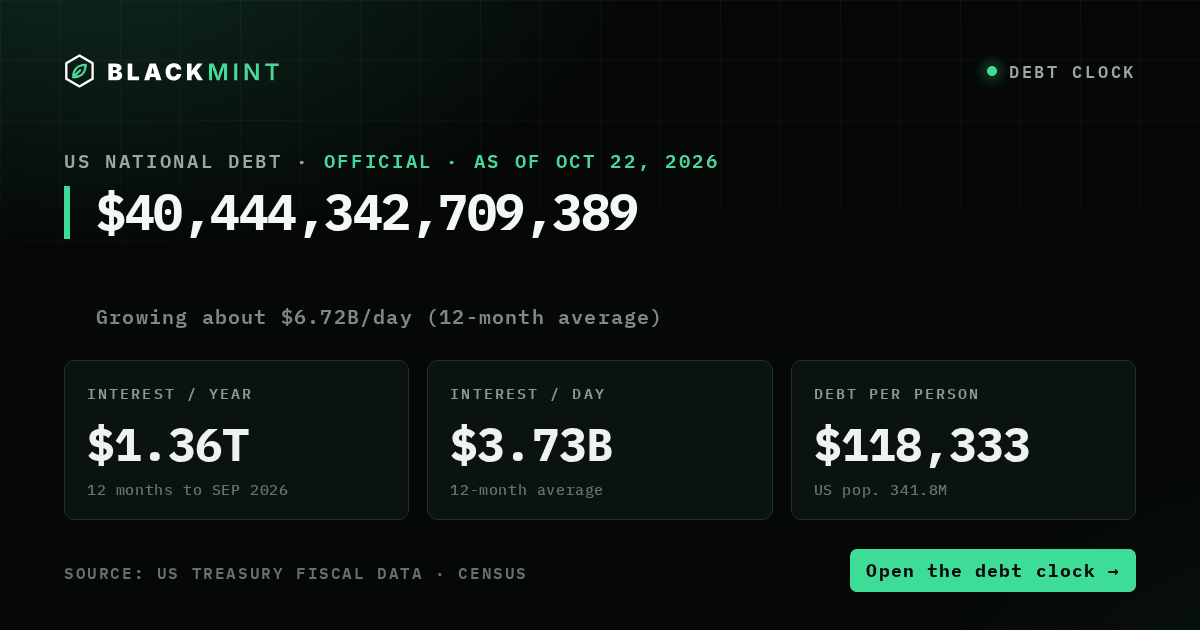
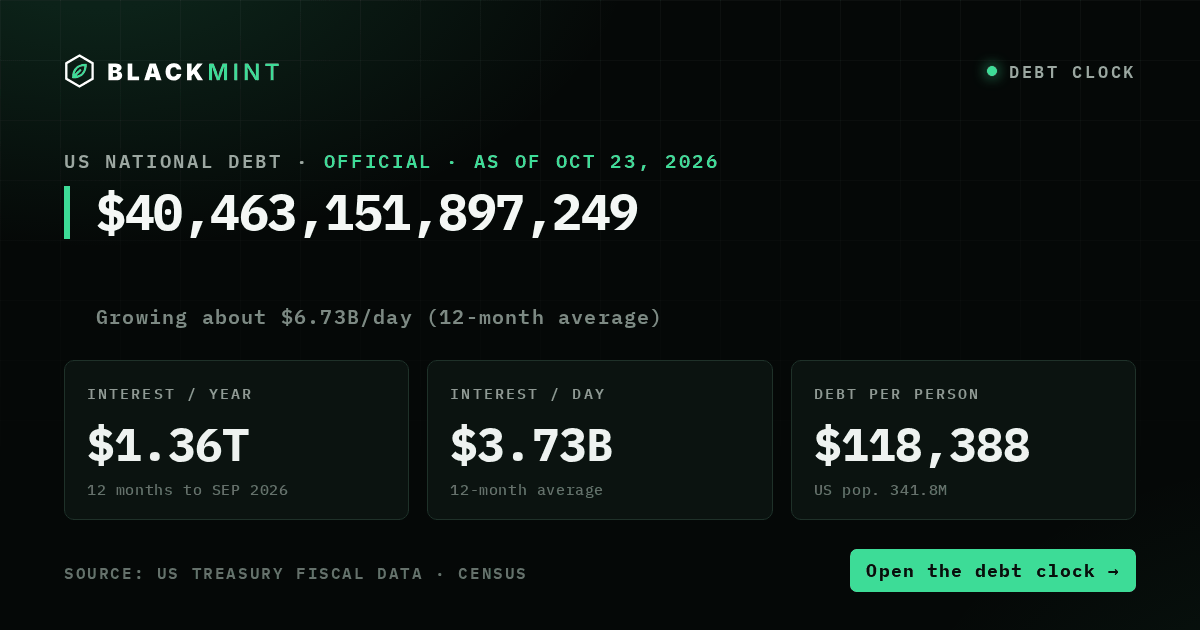
News 2026-10-26 18:46 ET: 16 live, +1 -3 · debt 2026-10-23

diff --git a/debt/index.html b/debt/index.html
@@ -1,1 +1,1 @@
-<!doctype html><html lang="en"><head><meta charset="utf-8"><meta name="viewport" content="width=device-width,initial-scale=1"><title>US National Debt Clock — Blackmint</title><meta name="description" content="The US national debt was $40.44 trillion ($40,444,342,709,389) on Oct 22, 2026, per the US Treasury. Interest: $1.36T a year, about $3.73B a day. That is $118,333 per person."><link rel="canonical" href="https://blackmint.markets/debt/"><meta property="og:type" content="website"><meta property="og:site_name" content="Blackmint"><meta property="og:title" content="US National Debt Clock — Blackmint"><meta property="og:description" content="The US national debt was $40.44 trillion ($40,444,342,709,389) on Oct 22, 2026, per the US Treasury. Interest: $1.36T a year, about $3.73B a day. That is $118,333 per person."><meta property="og:url" content="https://blackmint.markets/debt/"><meta property="og:image" content="https://blackmint.markets/og/debt/clock.png?v=20261022-2c67a5"><meta property="og:image:type" content="image/png"><meta property="og:image:width" content="1200"><meta property="og:image:height" content="630"><meta property="og:image:alt" content="US national debt $40,444,342,709,389 as of Oct 22, 2026: interest $1.36T per year, $3.73B per day, $118,333 per person. Blackmint."><meta name="twitter:card" content="summary_large_image"><meta name="twitter:title" content="US National Debt Clock — Blackmint"><meta name="twitter:description" content="The US national debt was $40.44 trillion ($40,444,342,709,389) on Oct 22, 2026, per the US Treasury. Interest: $1.36T a year, about $3.73B a day. That is $118,333 per person."><meta name="twitter:image" content="https://blackmint.markets/og/debt/clock.png?v=20261022-2c67a5"><meta name="twitter:image:alt" content="US national debt $40,444,342,709,389 as of Oct 22, 2026: interest $1.36T per year, $3.73B per day, $118,333 per person. Blackmint."><meta name="theme-color" content="#050807"><link rel="icon" href="/favicon.ico" sizes="16x16 32x32 48x48"><link rel="apple-touch-icon" href="/apple-touch-icon.png"><script>(function(){try{if(/bot|crawl|spider|slurp|facebookexternalhit|facebot|twitterbot|slackbot|whatsapp|telegram|discord|linkedin|pinterest|embedly|skype|vkshare|redditbot|applebot|google-?inspection|bingpreview|quora|outbrain|iframely|mastodon|bluesky|cardyb|snapchat|line\/|kakaotalk|viber|signal|preview/i.test(navigator.userAgent||''))return}catch(_){}location.replace((/(^|\.)blackmint\.markets$|^localhost$|^127\.0\.0\.1$/.test(location.hostname)?'':'https://blackmint.markets')+'/#debt')})()</script><style>*{box-sizing:border-box}html,body{margin:0;background:#050807;color:#e8ecea;font:16px/1.5 Inter,system-ui,-apple-system,'Segoe UI',Roboto,sans-serif}main{max-width:680px;margin:0 auto;padding:40px 22px}img.lk{display:block;height:26px;width:auto;margin-bottom:34px}.k{font:600 12px ui-monospace,'IBM Plex Mono',monospace;letter-spacing:.12em;text-transform:uppercase;color:#3ddc97}h1{font-size:30px;line-height:1.2;margin:10px 0 14px;letter-spacing:-.01em}p{color:#a9b2ad;margin:0 0 26px}a.b{display:inline-block;background:#3ddc97;color:#04110b;font-weight:700;text-decoration:none;padding:12px 18px;border-radius:8px}small{display:block;margin-top:28px;color:#65716b;font-size:12px}</style></head><body><main><img class="lk" src="/og/lockup.svg" alt="Blackmint" width="140" height="22"><div class="k">US national debt · Official · Oct 22, 2026</div><h1>$40,444,342,709,389</h1><p>The US national debt was $40.44 trillion ($40,444,342,709,389) on Oct 22, 2026, per the US Treasury. Interest: $1.36T a year, about $3.73B a day. That is $118,333 per person.</p><a class="b" href="https://blackmint.markets/#debt">Open in Blackmint →</a><small>Blackmint · blackmint.markets · Not financial advice.</small></main></body></html>
+<!doctype html><html lang="en"><head><meta charset="utf-8"><meta name="viewport" content="width=device-width,initial-scale=1"><title>US National Debt Clock — Blackmint</title><meta name="description" content="The US national debt was $40.46 trillion ($40,463,151,897,249) on Oct 23, 2026, per the US Treasury. Interest: $1.36T a year, about $3.73B a day. That is $118,388 per person."><link rel="canonical" href="https://blackmint.markets/debt/"><meta property="og:type" content="website"><meta property="og:site_name" content="Blackmint"><meta property="og:title" content="US National Debt Clock — Blackmint"><meta property="og:description" content="The US national debt was $40.46 trillion ($40,463,151,897,249) on Oct 23, 2026, per the US Treasury. Interest: $1.36T a year, about $3.73B a day. That is $118,388 per person."><meta property="og:url" content="https://blackmint.markets/debt/"><meta property="og:image" content="https://blackmint.markets/og/debt/clock.png?v=20261023-1be2a3"><meta property="og:image:type" content="image/png"><meta property="og:image:width" content="1200"><meta property="og:image:height" content="630"><meta property="og:image:alt" content="US national debt $40,463,151,897,249 as of Oct 23, 2026: interest $1.36T per year, $3.73B per day, $118,388 per person. Blackmint."><meta name="twitter:card" content="summary_large_image"><meta name="twitter:title" content="US National Debt Clock — Blackmint"><meta name="twitter:description" content="The US national debt was $40.46 trillion ($40,463,151,897,249) on Oct 23, 2026, per the US Treasury. Interest: $1.36T a year, about $3.73B a day. That is $118,388 per person."><meta name="twitter:image" content="https://blackmint.markets/og/debt/clock.png?v=20261023-1be2a3"><meta name="twitter:image:alt" content="US national debt $40,463,151,897,249 as of Oct 23, 2026: interest $1.36T per year, $3.73B per day, $118,388 per person. Blackmint."><meta name="theme-color" content="#050807"><link rel="icon" href="/favicon.ico" sizes="16x16 32x32 48x48"><link rel="apple-touch-icon" href="/apple-touch-icon.png"><script>(function(){try{if(/bot|crawl|spider|slurp|facebookexternalhit|facebot|twitterbot|slackbot|whatsapp|telegram|discord|linkedin|pinterest|embedly|skype|vkshare|redditbot|applebot|google-?inspection|bingpreview|quora|outbrain|iframely|mastodon|bluesky|cardyb|snapchat|line\/|kakaotalk|viber|signal|preview/i.test(navigator.userAgent||''))return}catch(_){}location.replace((/(^|\.)blackmint\.markets$|^localhost$|^127\.0\.0\.1$/.test(location.hostname)?'':'https://blackmint.markets')+'/#debt')})()</script><style>*{box-sizing:border-box}html,body{margin:0;background:#050807;color:#e8ecea;font:16px/1.5 Inter,system-ui,-apple-system,'Segoe UI',Roboto,sans-serif}main{max-width:680px;margin:0 auto;padding:40px 22px}img.lk{display:block;height:26px;width:auto;margin-bottom:34px}.k{font:600 12px ui-monospace,'IBM Plex Mono',monospace;letter-spacing:.12em;text-transform:uppercase;color:#3ddc97}h1{font-size:30px;line-height:1.2;margin:10px 0 14px;letter-spacing:-.01em}p{color:#a9b2ad;margin:0 0 26px}a.b{display:inline-block;background:#3ddc97;color:#04110b;font-weight:700;text-decoration:none;padding:12px 18px;border-radius:8px}small{display:block;margin-top:28px;color:#65716b;font-size:12px}</style></head><body><main><img class="lk" src="/og/lockup.svg" alt="Blackmint" width="140" height="22"><div class="k">US national debt · Official · Oct 23, 2026</div><h1>$40,463,151,897,249</h1><p>The US national debt was $40.46 trillion ($40,463,151,897,249) on Oct 23, 2026, per the US Treasury. Interest: $1.36T a year, about $3.73B a day. That is $118,388 per person.</p><a class="b" href="https://blackmint.markets/#debt">Open in Blackmint →</a><small>Blackmint · blackmint.markets · Not financial advice.</small></main></body></html>

diff --git a/news/bitcoin-core-32-1-final-release/index.html b/news/bitcoin-core-32-1-final-release/index.html
@@ -1,0 +1,1 @@
+<!doctype html><html lang="en"><head><meta charset="utf-8"><meta name="viewport" content="width=device-width,initial-scale=1"><title>Bitcoin Core Tags 32.1 Final, Ending Support for 29.x Releases</title><meta name="description" content="Version 32.1 raises the default peer cap to 200 and adds a mempool-based fee estimator. Details of three flaws fixed in 30.0 are due in two weeks."><link rel="canonical" href="https://blackmint.markets/news/bitcoin-core-32-1-final-release/"><meta property="og:type" content="article"><meta property="og:site_name" content="Blackmint"><meta property="og:title" content="Bitcoin Core Tags 32.1 Final, Ending Support for 29.x Releases"><meta property="og:description" content="Version 32.1 raises the default peer cap to 200 and adds a mempool-based fee estimator. Details of three flaws fixed in 30.0 are due in two weeks."><meta property="og:url" content="https://blackmint.markets/news/bitcoin-core-32-1-final-release/"><meta property="og:image" content="https://blackmint.markets/og/news/bitcoin-core-32-1-final-release.png"><meta property="og:image:type" content="image/png"><meta property="og:image:width" content="1200"><meta property="og:image:height" content="630"><meta property="og:image:alt" content="Blackmint Desk · Bitcoin · Bitcoin Core Tags 32.1 Final, Ending Support for 29.x Releases"><meta name="twitter:card" content="summary_large_image"><meta name="twitter:title" content="Bitcoin Core Tags 32.1 Final, Ending Support for 29.x Releases"><meta name="twitter:description" content="Version 32.1 raises the default peer cap to 200 and adds a mempool-based fee estimator. Details of three flaws fixed in 30.0 are due in two weeks."><meta name="twitter:image" content="https://blackmint.markets/og/news/bitcoin-core-32-1-final-release.png"><meta name="twitter:image:alt" content="Blackmint Desk · Bitcoin · Bitcoin Core Tags 32.1 Final, Ending Support for 29.x Releases"><meta name="theme-color" content="#050807"><link rel="icon" href="/favicon.ico" sizes="16x16 32x32 48x48"><link rel="apple-touch-icon" href="/apple-touch-icon.png"><meta property="article:published_time" content="2026-10-26T22:00:13Z"><meta property="article:section" content="Bitcoin"><script type="application/ld+json">{"@context": "https://schema.org", "@type": "NewsArticle", "headline": "Bitcoin Core Tags 32.1 Final, Ending Support for 29.x Releases", "description": "Version 32.1 raises the default peer cap to 200 and adds a mempool-based fee estimator. Details of three flaws fixed in 30.0 are due in two weeks.", "datePublished": "2026-10-26T22:00:13Z", "author": {"@type": "Organization", "name": "Blackmint Desk"}, "publisher": {"@type": "Organization", "name": "Blackmint", "logo": {"@type": "ImageObject", "url": "https://blackmint.markets/icon-512.png"}}, "image": ["https://blackmint.markets/og/news/bitcoin-core-32-1-final-release.png"], "mainEntityOfPage": "https://blackmint.markets/news/bitcoin-core-32-1-final-release/"}</script><script>(function(){try{if(/bot|crawl|spider|slurp|facebookexternalhit|facebot|twitterbot|slackbot|whatsapp|telegram|discord|linkedin|pinterest|embedly|skype|vkshare|redditbot|applebot|google-?inspection|bingpreview|quora|outbrain|iframely|mastodon|bluesky|cardyb|snapchat|line\/|kakaotalk|viber|signal|preview/i.test(navigator.userAgent||''))return}catch(_){}location.replace("/#news/bitcoin-core-32-1-final-release")})()</script><style>*{box-sizing:border-box}html,body{margin:0;background:#050807;color:#e8ecea;font:16px/1.5 Inter,system-ui,-apple-system,'Segoe UI',Roboto,sans-serif}main{max-width:680px;margin:0 auto;padding:40px 22px}img.lk{display:block;height:26px;width:auto;margin-bottom:34px}.k{font:600 12px ui-monospace,'IBM Plex Mono',monospace;letter-spacing:.12em;text-transform:uppercase;color:#3ddc97}h1{font-size:30px;line-height:1.2;margin:10px 0 14px;letter-spacing:-.01em}p{color:#a9b2ad;margin:0 0 26px}a.b{display:inline-block;background:#3ddc97;color:#04110b;font-weight:700;text-decoration:none;padding:12px 18px;border-radius:8px}small{display:block;margin-top:28px;color:#65716b;font-size:12px}</style></head><body><main><img class="lk" src="/og/lockup.svg" alt="Blackmint" width="140" height="22"><div class="k">Blackmint Desk · Bitcoin · Oct 26, 2026</div><h1>Bitcoin Core Tags 32.1 Final, Ending Support for 29.x Releases</h1><p>Version 32.1 raises the default peer cap to 200 and adds a mempool-based fee estimator. Details of three flaws fixed in 30.0 are due in two weeks.</p><a class="b" href="/#news/bitcoin-core-32-1-final-release">Open in Blackmint →</a><small>Blackmint · blackmint.markets · Not financial advice.</small></main></body></html>
